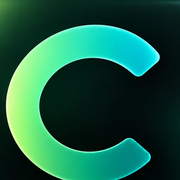
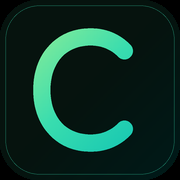
feat(marca): pacote CALc atualizado — assinatura horizontal em contornos e PNGs do vetor
- marca/assinatura-horizontal.svg (+ -transp e -mono): simbolo a esquerda,
  nome CALc a direita, 'SIMULADOR DE FINANCIAMENTO IMOBILIARIO' abaixo, sem
  sobreposicao; textos convertidos em CONTORNOS (fontTools + Outfit), acentos ok
- marca/logo-vertical.svg (+ -transp): composicao empilhada
- marca/icone.svg e icone-mono.svg: simbolo do pacote (C sem telhado/quadrados)
- PNGs 512/192/180/32, maskable e preto-e-branco REGERADOS do proprio vetor
  (os PNGs do pacote vinham com a borda serrilhada)
- cabecalho usa a assinatura em vetor; PDF troca para a versao monocromatica
- favicon tambem em SVG, alem do .ico e do PNG 32

Nenhuma alteracao em calculos, parametros, regras de financiamento, integracao
com o CRM ou layout funcional.

diff --git a/index.html b/index.html
@@ -11,6 +11,7 @@
 
     <!-- Marca CALc: icone na tela inicial do celular, favicon e cor do app -->
     <link rel="icon" href="marca/favicon.ico" sizes="any">
+    <link rel="icon" type="image/svg+xml" href="marca/icone.svg">
     <link rel="icon" type="image/png" sizes="32x32" href="marca/icone-32.png">
     <link rel="apple-touch-icon" sizes="180x180" href="marca/icone-180.png">
     <link rel="manifest" href="manifest.webmanifest">
@@ -24,14 +25,14 @@
     <meta property="og:type" content="website">
     <meta property="og:title" content="CALc — Simulador de Financiamento Imobiliário">
     <meta property="og:description" content="Descubra a entrada, a renda necessária e os custos para comprar o imóvel que você tem em vista.">
-    <meta property="og:image" content="https://simule-aqui.netlify.app/marca/logo-512.png">
+    <meta property="og:image" content="https://simule-aqui.netlify.app/marca/icone-512.png">
     <meta property="og:locale" content="pt_BR">
     <meta name="twitter:card" content="summary_large_image">
 </head>
 <body>
     <div class="container">
         <div class="header">
-            <img class="logo-marca" src="marca/logo-256.png" alt="CALc" width="96" height="96">
+            <img class="logo-marca" src="marca/assinatura-horizontal-transp.svg" alt="CALc — Simulador de Financiamento Imobiliário" width="340" height="110">
             <div class="logo-name">Cal Oliveiras</div>
             <div class="logo-sub">Corretor Particular</div>
             <span class="logo-creci">CRECI 39020F · Brusque/SC</span>

diff --git a/estilo.css b/estilo.css
@@ -1013,17 +1013,17 @@ body::before {
 }
 
 /* ---------- MARCA CALc ---------- */
+/* assinatura horizontal em vetor: simbolo + nome + descricao */
 .logo-marca {
     display: block;
-    margin: 0 auto 14px;
-    width: 96px;
-    height: 96px;
-    border-radius: 22%;
-    box-shadow: 0 10px 26px rgba(0, 0, 0, .45);
+    margin: 0 auto 10px;
+    width: 340px;
+    height: auto;
+    max-width: 86%;
 }
-@media (max-width: 768px) { .logo-marca { width: 76px; height: 76px; margin-bottom: 10px; } }
+@media (max-width: 768px) { .logo-marca { width: 260px; margin-bottom: 8px; } }
 
-/* no PDF a marca entra menor e sem sombra */
+/* no PDF entra a versao monocromatica, menor */
 @media print {
-    .logo-marca { width: 54px !important; height: 54px !important; box-shadow: none !important; margin-bottom: 6px !important; }
+    .logo-marca { width: 230px !important; margin-bottom: 4px !important; content: url("marca/assinatura-horizontal-mono.svg"); }
 }
